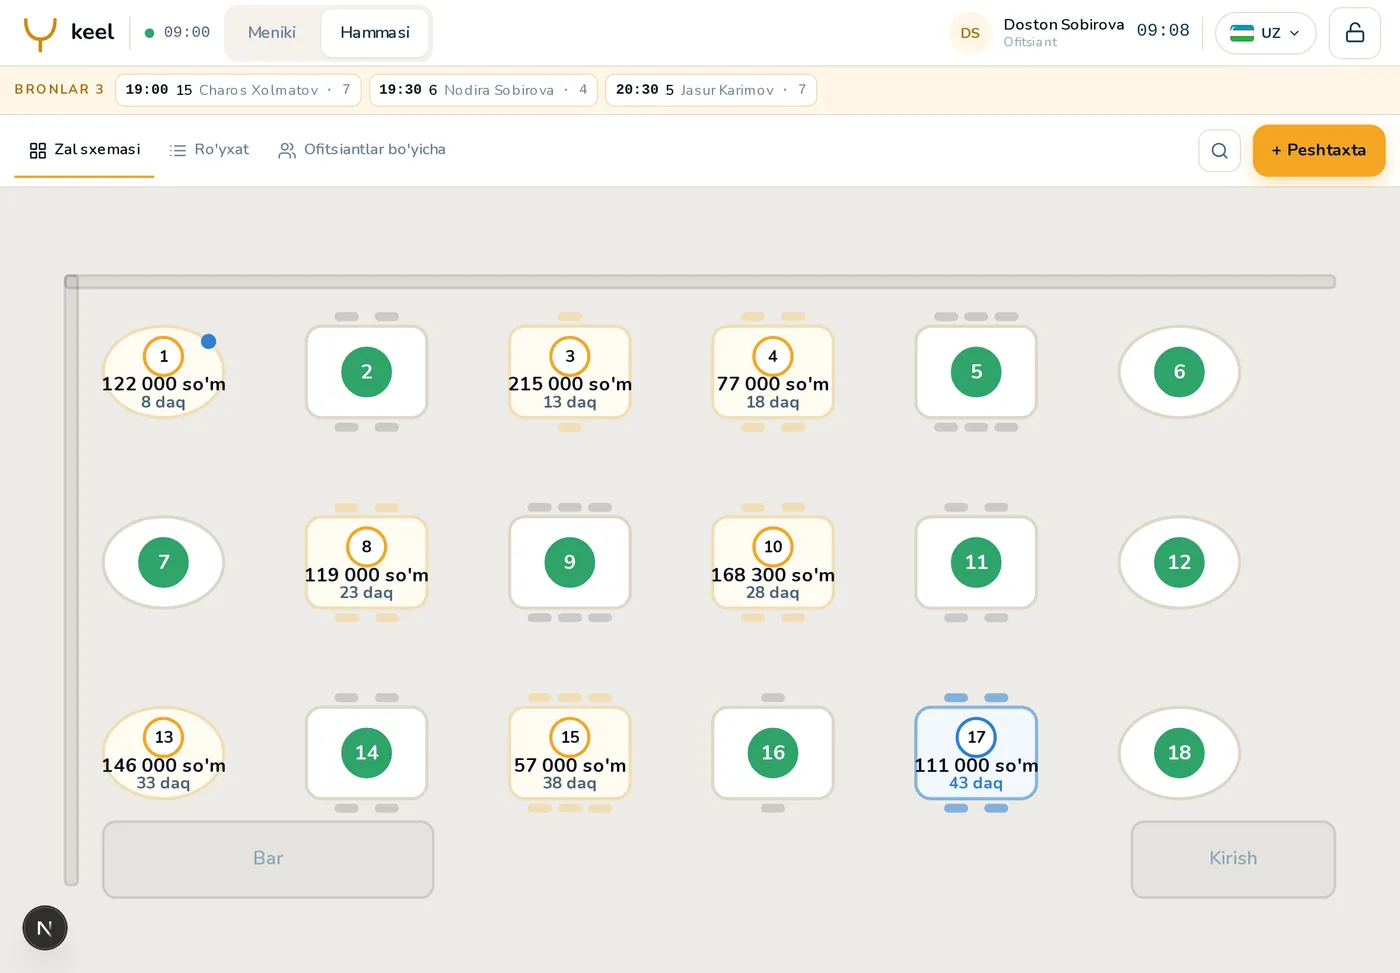
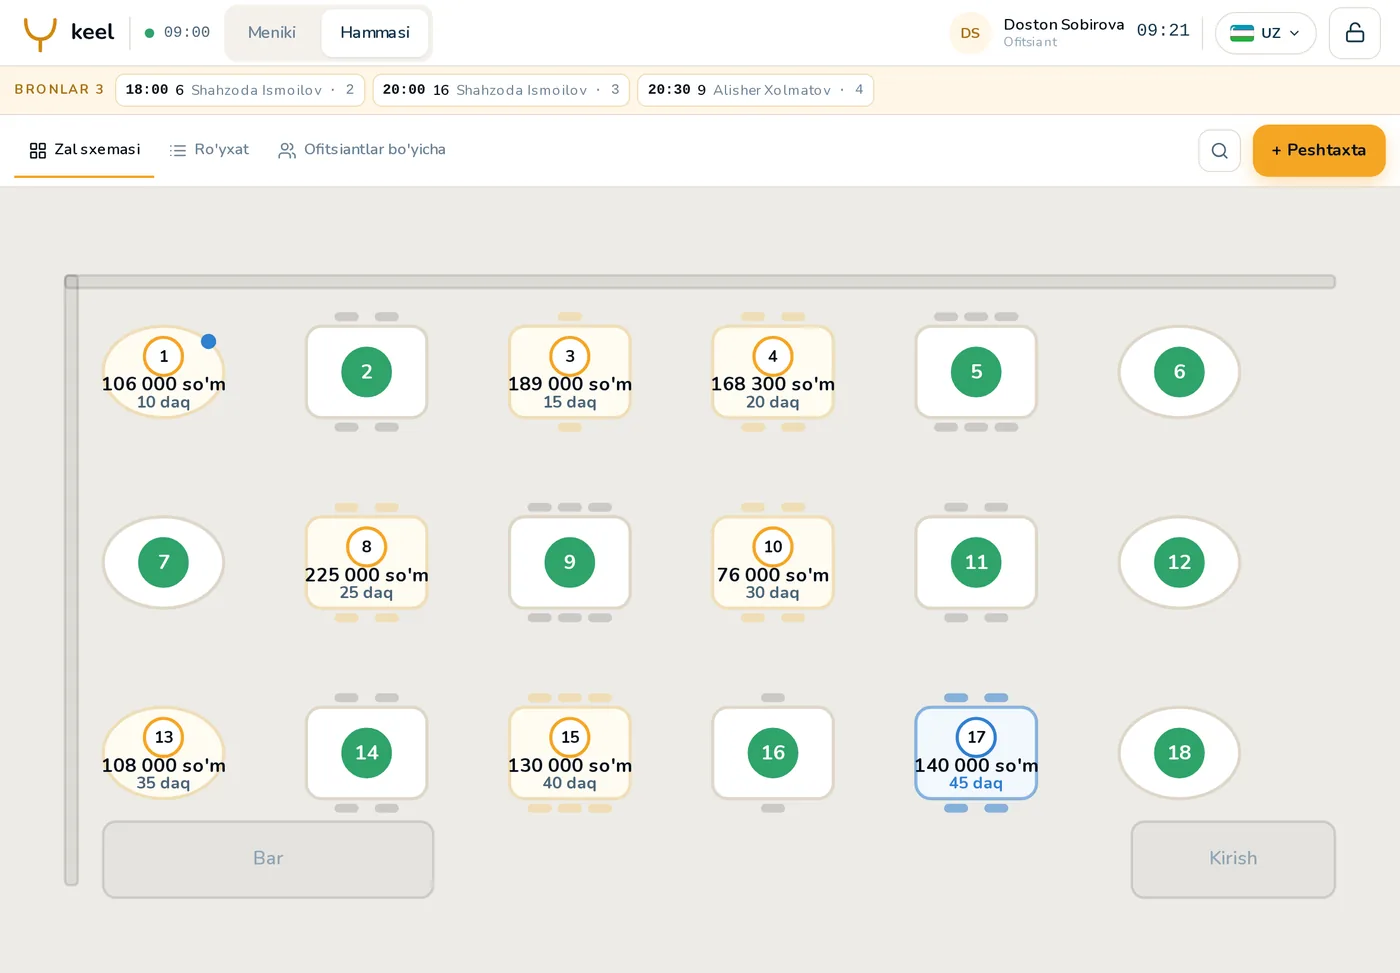
The dev indicator went out in two published screenshots
The kitchen display, in the second row of the till section. It also caught two
things already shipped.

⚠ **Next's dev indicator was baked into till.webp and floor.webp.** It renders
in a `nextjs-portal` element pinned to the bottom-left, so it landed inside the
frame and read as a stray badge on the customer's own till — on a page whose
whole argument is that these are real screens. Every shot is now taken with that
element hidden, and both files are re-exported.

⚠ **The mirrored row was giving its mockup the narrow track.** `order-2` moves
the picture to the right; it does not move the `1.35fr`, so the alternating row
silently halved its own image and the pass's nine tickets were unreadable at
455px. Reordering and re-sizing are two different things, and only one of them
was being done.

⚠ **The pass carries nine tickets now, not six.** It lays them out three across,
so six filled two rows and left the bottom third of a monitor blank — a quiet
kitchen, which is the opposite of what a picture of a service is for.

The badge follows the mockup to the outer corner: pinned left on both rows it
sat on the mirrored screenshot's own heading.

diff --git a/keel-site/src/lib/i18n/dict.ts b/keel-site/src/lib/i18n/dict.ts
@@ -324,6 +324,7 @@ export const uz = {
       "Chapda menyu, o'ngda ochiq chek: stol, ofitsiant va necha daqiqadan beri o'tirganlari. Naqd, karta yoki o'tkazma — bir bosishda.",
     shotAlt: "Keel kassa ekrani: taomlar to'ri va 2-stolning ochiq cheki",
     floorAlt: "Zal xaritasi planshetda: band stollar, ochiq cheklar summasi va necha daqiqadan beri",
+    kitchenAlt: "Oshxona ekrani: to'qqizta chek navbatda, eng uzoq kutgani birinchi, taomga izohlari bilan",
     title: "Uchta ekran: *kassa, zal va oshxona*",
     lead:
       "Kassir chekni yopadi, ofitsiant stolni ochadi, oshpaz nima pishirishini ko'radi. Sotilgan taom omborda o'sha zahoti ayriladi.",
@@ -1216,6 +1217,7 @@ export const ru: Dict = {
       "Слева меню, справа открытый чек: стол, официант и сколько минут гости сидят. Наличные, карта или перевод — в одно касание.",
     shotAlt: "Экран кассы Keel: сетка блюд и открытый чек 2-го стола",
     floorAlt: "Карта зала на планшете: занятые столы, суммы открытых чеков и сколько минут",
+    kitchenAlt: "Кухонный экран: девять чеков в очереди, самый долгий первым, с комментариями к блюдам",
     title: "Три экрана: *касса, зал и кухня*",
     lead:
       "Кассир закрывает счёт, официант открывает стол, повар видит, что готовить. Проданное блюдо списывается со склада сразу.",
@@ -2087,6 +2089,7 @@ export const en: Dict = {
       "Menu on the left, the open check on the right: the table, the waiter, and how long they have been sitting. Cash, card or transfer in one tap.",
     shotAlt: "The Keel till screen: the dish grid and table 2's open check",
     floorAlt: "The floor map on a tablet: occupied tables, open check totals and how long they have been sitting",
+    kitchenAlt: "The kitchen display: nine tickets in the queue, the longest wait first, with the notes on each dish",
     title: "Three screens: *till, floor and kitchen*",
     lead:
       "The cashier closes a check, the waiter opens a table, the cook sees what to make. A dish sold comes off the shelf straight away.",

diff --git a/keel-site/src/app/page.tsx b/keel-site/src/app/page.tsx
@@ -242,10 +242,10 @@ export default async function Home() {
             },
             {
               V: KitchenVisual,
-              shot: "",
-              alt: "",
-              w: 0,
-              h: 0,
+              shot: "/shots/kds.webp",
+              alt: t.till.kitchenAlt,
+              w: 1500,
+              h: 938,
               it: t.till.screens[1],
               kind: "screen" as const,
               B: IconKitchen,
@@ -253,14 +253,28 @@ export default async function Home() {
           ].map(({ V, shot, alt, w, h, it, kind, B }, i) => (
             <div
               key={it.name}
-              className={`grid items-center gap-8 lg:grid-cols-[1.35fr_1fr] ${
-                i % 2 === 1 ? "lg:[&>*:first-child]:order-2" : ""
+              // ⚠ **The mirrored row needs its tracks mirrored too.** Moving
+              // the mockup to the right with `order-2` puts it in the *second*
+              // track, and with the ratio left alone that is the narrow one —
+              // so the alternating row silently halved its own picture, and
+              // the kitchen display's nine tickets became unreadable at 455px.
+              // Reordering and re-sizing are two different things.
+              className={`grid items-center gap-8 ${
+                i % 2 === 1
+                  ? "lg:grid-cols-[1fr_1.35fr] lg:[&>*:first-child]:order-2"
+                  : "lg:grid-cols-[1.35fr_1fr]"
               }`}
             >
               <div className="relative">
                 {/* The badge names the room the screen is in, so two rows are
-                    not the same row twice. */}
-                <FloatBadge className="-left-3 -top-3">
+                    not the same row twice.
+                    ⚠ It follows the mockup to the outer corner. Pinned to the
+                    left on both rows it sat on the mirrored screenshot's own
+                    heading — a badge covering the words in the picture it is
+                    supposed to label. */}
+                <FloatBadge
+                  className={i % 2 === 1 ? "-right-3 -top-3" : "-left-3 -top-3"}
+                >
                   <B className="h-5 w-5" />
                 </FloatBadge>
                 <Frame kind={kind}>

diff --git a/backend/cmd/demodata/main.go b/backend/cmd/demodata/main.go
@@ -1144,19 +1144,28 @@ func (w *world) tonight(ctx context.Context) {
 		orders = append(orders, w.buildOrder(orderSeed{at: at, kind: kind, status: models.StatusDelivered}))
 	}
 
-	// The live queue, oldest first: two waiting to be accepted, four on the
+	// The live queue, oldest first: two waiting to be accepted, six on the
 	// pass, three out with a courier.
+	//
+	// ⚠ **Six, not four, because the pass is a screen and not a list.** The
+	// kitchen display lays its tickets out three across; four of them plus the
+	// two dine-in checks filled two rows and left the bottom third of a
+	// monitor blank, which reads as a quiet kitchen — the opposite of what a
+	// picture of a service is for.
 	for i := 0; i < 2; i++ {
 		o := w.buildOrder(orderSeed{at: minsAgo(1 + i*2), kind: "delivery", status: models.StatusPending})
 		orders = append(orders, o)
 	}
-	for i := 0; i < 4; i++ {
-		kind := []string{"delivery", "dinein", "pickup", "delivery"}[i]
+	passKinds := []string{"delivery", "dinein", "pickup", "delivery", "delivery", "dinein"}
+	for i := 0; i < len(passKinds); i++ {
+		kind := passKinds[i]
 		st := models.StatusPreparing
-		if i == 3 {
+		// The two newest have been accepted but not started, so the pass shows
+		// both states and its one button has something to do.
+		if i >= len(passKinds)-2 {
 			st = models.StatusConfirmed
 		}
-		o := w.buildOrder(orderSeed{at: minsAgo(4 + i*5), kind: kind, status: st})
+		o := w.buildOrder(orderSeed{at: minsAgo(4 + i*4), kind: kind, status: st})
 		// ⚠ The pass filters on `queuedAt <= now` and `readyAt` empty — a
 		// ticket without both is a ticket nobody in the kitchen ever sees.
 		o.ReadyAt = nil
@@ -1209,7 +1218,7 @@ func (w *world) tonight(ctx context.Context) {
 		// kitchen in collapse. Only the two newest tables are still cooking;
 		// the rest have been served and stay open because nobody has paid yet,
 		// which is what an open check actually means.
-		if i >= 2 {
+		if i >= 3 {
 			served := opened.Add(time.Duration(9+rng.Intn(6)) * time.Minute)
 			o.ReadyAt = &served
 		}

diff --git a/docs/LANDING_REDESIGN.md b/docs/LANDING_REDESIGN.md
@@ -77,12 +77,27 @@ Kerak bo'ladigan kadrlar (✅ — olingan):
   ⚠ Chek yoshlari qadami 7 → 5 daqiqaga tushirildi: stol soni oshgach
   sakkizinchi chek 57 daqiqa bo'lib **qizarardi** — hech nima yomon
   ketmayotganini ko'rsatishi kerak bo'lgan ekranda ikkita qizil.
-- Oshxona ekrani (KDS)
+- ✅ **Oshxona ekrani (KDS)** — `public/shots/kds.webp`, 1500×938, 54 KB.
+  ⚠ Passdagi cheklar 6 dan **9 taga** oshirildi: KDS cheklarni uchtadan
+  yotqizadi, oltitasi ikki qator bo'lib monitorning pastki uchdan birini bo'sh
+  qoldirardi — jim oshxona surati, ya'ni xizmat suratining teskarisi.
 - Admin panel: buyurtmalar oqimi, dashboard statistikasi
 - Ombor / tannarx ekrani
 - Telegram bot va mini app (telefon ramkasida)
 - Kuryer PWA (telefon ramkasida)
 - Restoran sayti (brauzer ramkasida)
+
+⚠ **Kadr olishdan oldin `nextjs-portal` yashiriladi** (Next dev indikatori,
+chap pastki burchakdagi "N" doirasi). U mahsulotning qismi emas, lekin ikkita
+chiqarilgan webp ichiga sezilmay tushib ketdi va u yerda mijozning o'z
+kassasida turgan begona nishonga o'xshaydi. `scratchpad/capture.py` uchala
+kadrni shu qoida bilan oladi.
+
+⚠ **`npm run build` va `next dev` bitta papkada bir vaqtda ishlamaydi**:
+build `.next` ni qayta yozadi va dev-server undan keyin CSS'siz sahifa beradi.
+Bu **layout xatosiga o'xshaydi** — bir marta yarim soat "grid nega
+ishlamayapti?" deb qidirildi, aslida sabab server edi. Kadr olishdan oldin
+dev-serverni qayta ishga tushiring.
 
 Har biri **light va dark** temada kerak bo'lishi mumkin — sahifa ikkala
 temada ishlaydi, va bitta oq screenshot to'q sahifada teshik bo'lib ko'rinadi.
